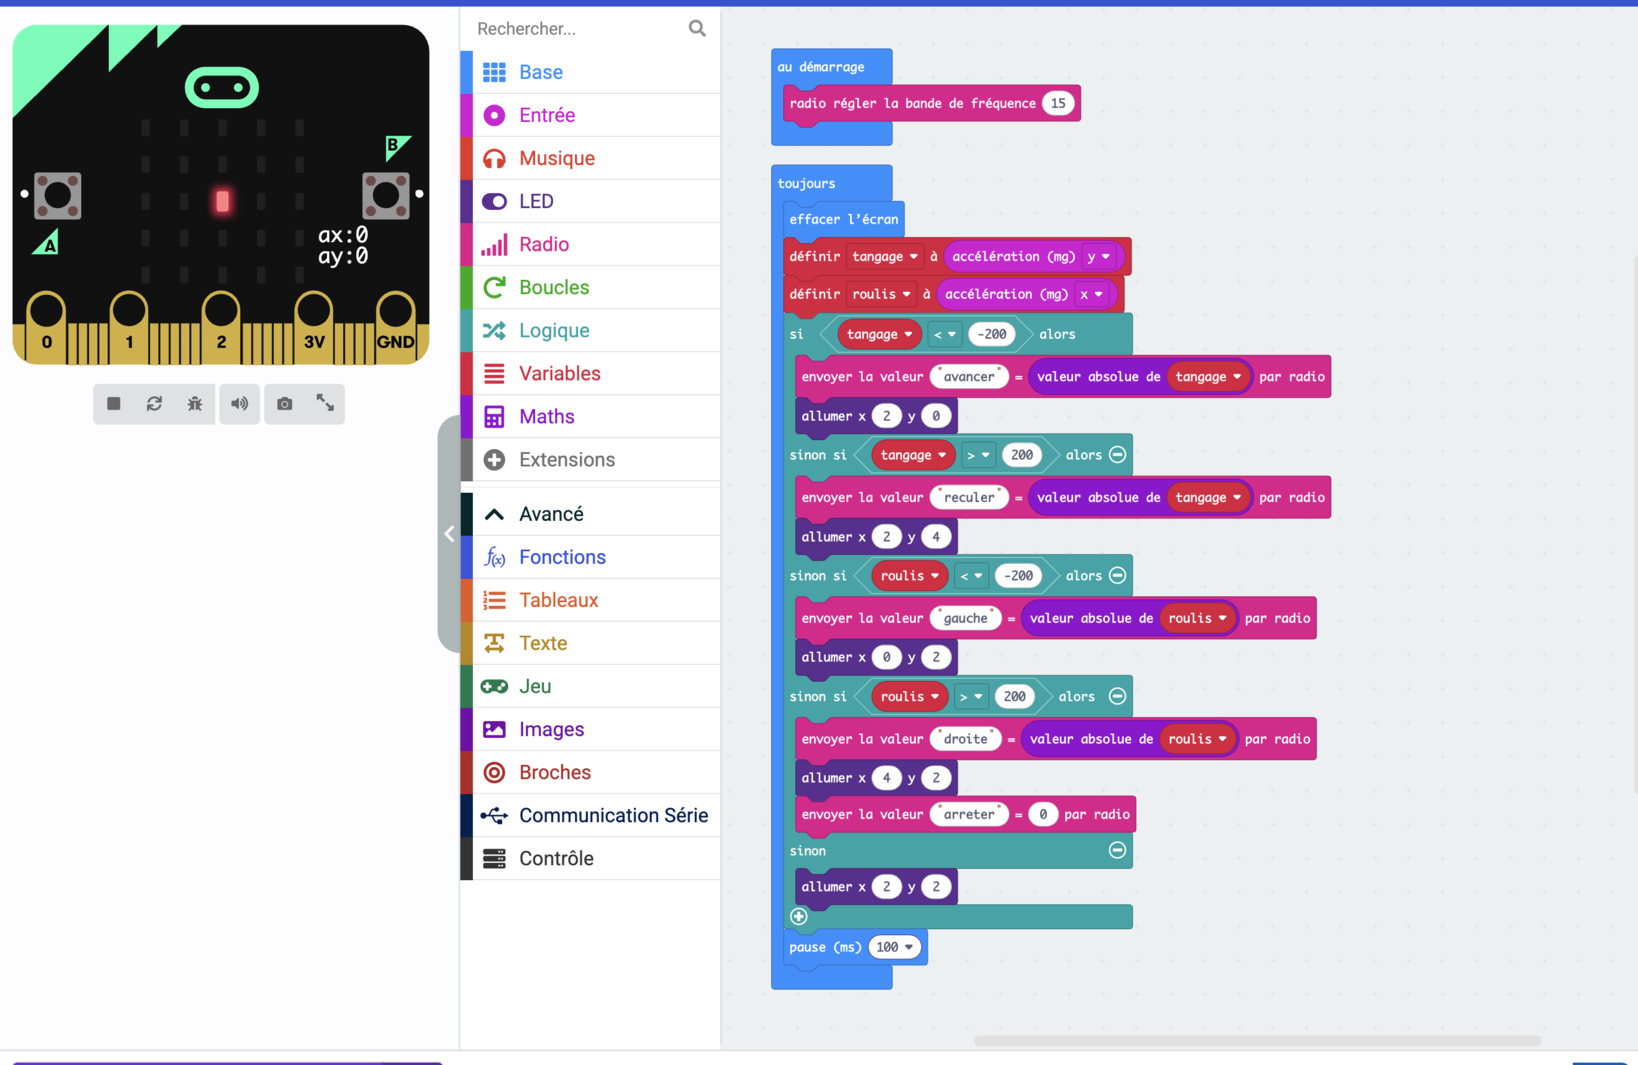
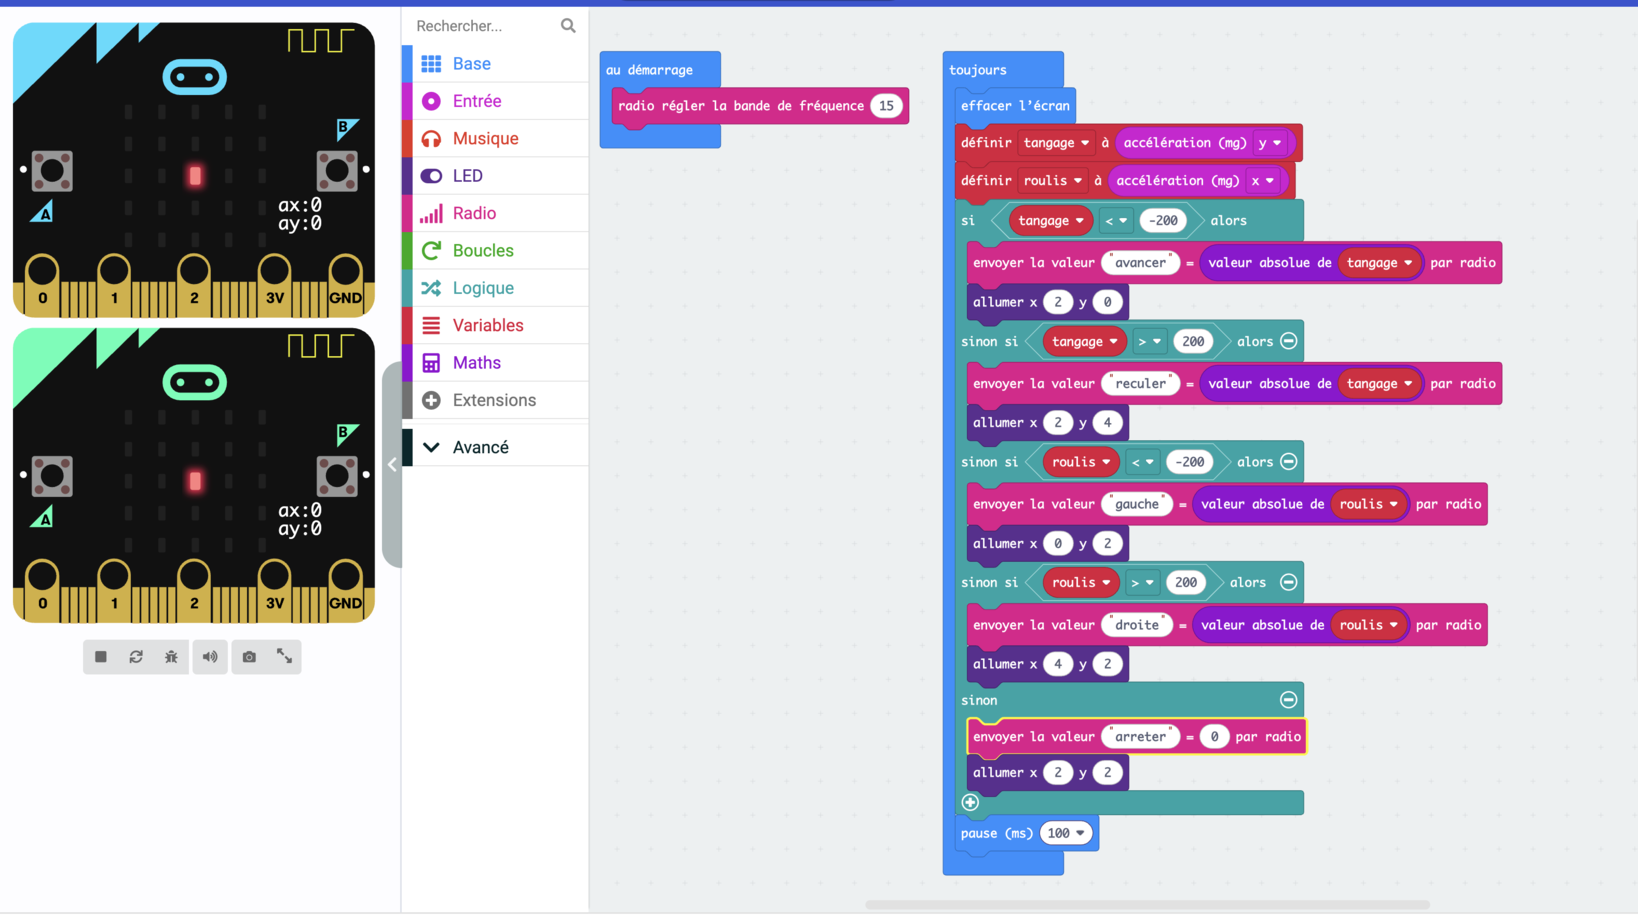
S4 : captures corrigées, et le bloc de comparaison de textes
arreter revient dans le sinon final de la télécommande, et le sinon des
clés inconnues du rover allume 4,4 au lieu de 2,4 — le point de reculer.

La section Comparaison de la catégorie Logique entre dans la page : les
deux blocs sur des 0, et celui sur deux cases de texte. C'est le piège
qui coûtait dix minutes par jeune.

Captures renumérotées en 20-26, dans l'ordre de la page.

diff --git a/docs/projets/rover/seances/s04-pilote-a-distance.md b/docs/projets/rover/seances/s04-pilote-a-distance.md
@@ -95,16 +95,20 @@ Ouvre `rover`, celui de la séance 2 et de ses cinq fonctions.
 
 Dans **Radio**, prends `quand une donnée est reçue par radio`. Il t'apporte deux choses : `nom` et `valeur`.
 
-Pour comparer deux textes, il te faut le bloc de comparaison à **cases blanches**, dans **Logique** — pas celui qui compare des nombres.
-
 <figure class="screenshot" markdown>
 ![Le bloc « quand une donnée est reçue par radio » avec ses cinq branches encore vides](../../../assets/rover-s04/23-quand-une-donnee-est-recue.png)
+</figure>
+
+`nom` est un **texte**. Pour le comparer, prends dans **Logique** le bloc d'égalité à **cases blanches** — pas celui qui compare des nombres.
+
+<figure class="screenshot" markdown>
+![La section Comparaison de la catégorie Logique : deux blocs d'égalité et d'infériorité sur des zéros, et en dessous le bloc d'égalité sur deux cases de texte vides](../../../assets/rover-s04/24-comparaison-de-textes.png)
 </figure>
 
 ## 7. La première branche
 
 <figure class="screenshot" markdown>
-![Dans le bloc de réception : si nom = avancer alors appel avancer, puis allumer x 2 y 0](../../../assets/rover-s04/24-premiere-branche.png)
+![Dans le bloc de réception : si nom = avancer alors appel avancer, puis allumer x 2 y 0](../../../assets/rover-s04/25-premiere-branche.png)
 </figure>
 
 `si nom = "avancer"` → `appel avancer`. Ta fonction de la séance 2 n'a pas bougé d'un bloc.
@@ -115,13 +119,13 @@ Ajoute `reculer`, `gauche`, `droite` et `arreter`. Allume dans chaque branche **
 
 Mets aussi `effacer l'écran` en tête, comme dans la télécommande.
 
-Termine par un `sinon` qui **arrête les moteurs** : un ordre que ton rover ne comprend pas ne doit pas le faire rouler.
+Termine par un `sinon` qui **arrête les moteurs** et allume un point que tu n'utilises pour rien d'autre : un ordre incompris ne doit pas faire rouler ton rover, et tu dois pouvoir le reconnaître d'un coup d'œil.
 
 <details markdown>
 <summary>La solution</summary>
 
 <figure class="screenshot" markdown>
-![Le programme du rover : cinq branches qui comparent nom à chaque clé, appellent la fonction correspondante et allument son point, puis un sinon qui arrête les moteurs](../../../assets/rover-s04/25-rover-complet.png)
+![Le programme du rover : cinq branches qui comparent nom à chaque clé, appellent la fonction correspondante et allument son point, puis un sinon qui arrête les moteurs et allume le coin bas-droit](../../../assets/rover-s04/26-rover-complet.png)
 </figure>
 
 Les points sont les mêmes que sur la télécommande, aux mêmes endroits. C'est ce qui rend le contrôle possible d'un coup d'œil.

diff --git a/animation/rover/s04.md b/animation/rover/s04.md
@@ -200,10 +200,12 @@ Côté rover, `au démarrage` contient `radio régler la bande de fréquence`, `
 
 **Les points doivent concorder des deux côtés**, c'est la condition du contrôle visuel. Si une capture est reprise un jour, c'est le premier point à revérifier : une première version, du temps des flèches, avait déjà inversé gauche et droite.
 
-**Deux réserves sur les captures publiées**, à reprendre :
+**Les deux défauts des premières captures sont corrigés** et les fichiers remplacés :
 
-1. Sur `22-telecommande-complete.png`, le bloc `envoyer la valeur "arreter" = 0` est **à l'intérieur de la branche `sinon si roulis > 200`**, sous `allumer x 4 y 2`. Il devrait être dans le `sinon` final, avec `allumer x 2 y 2`. En l'état, pencher à droite envoie `droite` puis `arreter` au même tour de boucle, et le rover s'arrête au lieu de tourner.
-2. Sur `25-rover-complet.png`, le `sinon` des clés inconnues allume `2,4` — le même point que `reculer`. Le témoin devient ambigu. Un point inutilisé, `0,0` par exemple, distinguerait « je n'ai pas compris » de « je recule ».
+1. Sur la télécommande, `envoyer la valeur "arreter" = 0` était tombé dans la branche `sinon si roulis > 200` au lieu du `sinon` final. Pencher à droite envoyait `droite` puis `arreter` au même tour de boucle, et le rover ne tournait pas.
+2. Sur le rover, le `sinon` des clés inconnues allumait `2,4`, le point de `reculer`. Il allume maintenant `4,4`, qui ne sert à rien d'autre : « je n'ai pas compris » se distingue de « je recule ».
+
+**La capture du bloc de comparaison de textes est arrivée** (`24-comparaison-de-textes.png`) : elle montre la section *Comparaison* de Logique, les deux blocs sur des `0` et, en dessous, celui sur deux cases de texte vides, avec son infobulle. C'est le piège qui coûte dix minutes par jeune ; il est maintenant dans le livre et plus seulement au vidéoprojecteur.
 
 ### Arbitrages de rédaction
 
